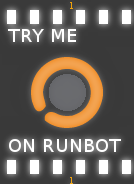
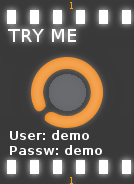
update link

Changed region(s): [[0.0299, 0.7065, 0.9254, 0.8424]]

diff --git a/README.md b/README.md
@@ -9,6 +9,16 @@ LIBRERP.IT
 Versione customizzata per l'Italia di Odoo.
 
 
+[![Alt Try Demo](https://raw.githubusercontent.com/LibrERP/librerp/8.0/try.png)](https://demo.librerp.it/) 
+
+
+La piattaforma [Travis-ci.org](https://travis-ci.org) processa i test di utilizzo definiti nei file [.yml](https://en.wikipedia.org/wiki/YAML), che danno il "semaforo verde" alla possibilità di installare il sistema senza errori. Questi dati di test non vengono usati in produzione.
+
+Sulla [Demo](https://demo.librerp.it) è invece possibile fare dei test reali, in quanto non vengono installati il piano dei conti e delle imposte "universali", ma (uno di) quelli utilizzabili effettivamente.
+
+Il [Coverage Status](https://coveralls.io) segnala invece quante righe del codice vengono testate, un'informazione importante per capire quanto i programmatori si preoccupano che il loro codice sia effettivamente funzionante, in quanto se i test sono molto ridotti non sono di grande utilità.
+
+
 Contributors
 ------------
 
